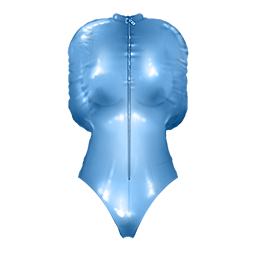
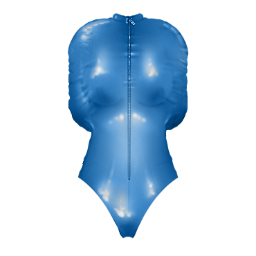
Feature: Shiny leotard variants (#1200)
* Initial commit of latex butterfly leotard code & assets

* Modifies the butterfly leotard to hide clit items

* Turns the butterfly leotard into an extended item, adds improved assets

* Adds a shiny variant of the latex boxtie leotard

* Adds a shiny variant of the latex sleeveless leotard

* Ensures the boxtie leotard actually hides vulva piercings

Changed region(s): [[0.25, 0.0312, 0.75, 0.9375]]

diff --git a/BondageClub/Assets/Female3DCG/Female3DCG.js b/BondageClub/Assets/Female3DCG/Female3DCG.js
@@ -1569,15 +1569,21 @@ var AssetFemale3DCG = [
 				]
 			},
 			{
-				Name: "LatexSleevelessLeotard", Value: 120, Priority: 23, Difficulty: 14, SelfBondage: 7, Time: 35, RemoveTime: 20, AllowLock: true, DefaultColor: "#d986a2", BuyGroup: "LatexSleevelessLeotard", Hide: ["Cloth", "ItemNipplesPiercings", "ItemVulvaPiercings"], HideItem: ["ItemButtAnalBeads2", "ItemVulvaVibratingDildo", "ItemVulvaInflatableVibeDildo", "ItemVulvaClitSuctionCup", "ItemNipplesLactationPump"], SetPose: ["BackElbowTouch"], Effect: ["Block", "Prone"], Block: ["ItemNipples", "ItemNipplesPiercings", "ItemVulva", "ItemVulvaPiercings", "ItemButt", "ItemPelvis", "ItemTorso", "ItemBreast", "ItemHands"], SelfUnlock: false, Layer: [
-					{ Name: "Latex", AllowColorize: true },
-					{ Name: "Highlights", AllowColorize: false }
+				Name: "LatexSleevelessLeotard", Value: 120, Priority: 23, Difficulty: 14, SelfBondage: 7, Time: 35, RemoveTime: 20, AllowLock: true, DefaultColor: "#d986a2", BuyGroup: "LatexSleevelessLeotard", Hide: ["Cloth", "ItemNipplesPiercings", "ItemVulvaPiercings"], HideItem: ["ItemButtAnalBeads2", "ItemVulvaVibratingDildo", "ItemVulvaInflatableVibeDildo", "ItemVulvaClitSuctionCup", "ItemNipplesLactationPump"], SetPose: ["BackElbowTouch"], Effect: ["Block", "Prone"], Block: ["ItemNipples", "ItemNipplesPiercings", "ItemVulva", "ItemVulvaPiercings", "ItemButt", "ItemPelvis", "ItemTorso", "ItemBreast", "ItemHands"], AllowType: ["Polished"], Extended: true, SelfUnlock: false, Layer: [
+					{ Name: "Latex", AllowColorize: true, AllowTypes: ["", "Polished"], HasType: false },
+					{ Name: "Highlights", AllowColorize: false, AllowTypes: ["", "Polished"] }
 				]
 			},
 			{
-				Name: "LatexBoxtieLeotard", Value: 120, Priority: 23, Difficulty: 14, SelfBondage: 7, Time: 35, RemoveTime: 20, AllowLock: true, DefaultColor: "#407eb3", BuyGroup: "LatexSleevelessLeotard", Hide: ["Cloth", "ItemNipplesPiercings"], HideItem: ["ItemButtAnalBeads2", "ItemVulvaVibratingDildo", "ItemVulvaInflatableVibeDildo", "ItemVulvaClitSuctionCup", "ItemVulvaPiercings"], SetPose: ["BackElbowTouch"], Effect: ["Block", "Prone"], Block: ["ItemNipples", "ItemNipplesPiercings", "ItemVulva", "ItemVulvaPiercings", "ItemButt", "ItemPelvis", "ItemTorso", "ItemBreast", "ItemHands"], SelfUnlock: false, Layer: [
-					{ Name: "Latex", AllowColorize: true },
-					{ Name: "Highlights", AllowColorize: false }
+				Name: "LatexBoxtieLeotard", Value: 120, Priority: 23, Difficulty: 14, SelfBondage: 7, Time: 35, RemoveTime: 20, AllowLock: true, DefaultColor: "#185d97", BuyGroup: "LatexSleevelessLeotard", Hide: ["Cloth", "ItemNipplesPiercings", "ItemVulvaPiercings"], HideItem: ["ItemButtAnalBeads2", "ItemVulvaVibratingDildo", "ItemVulvaInflatableVibeDildo", "ItemVulvaClitSuctionCup", "ItemVulvaPiercings"], SetPose: ["BackElbowTouch"], Effect: ["Block", "Prone"], Block: ["ItemNipples", "ItemNipplesPiercings", "ItemVulva", "ItemVulvaPiercings", "ItemButt", "ItemPelvis", "ItemTorso", "ItemBreast", "ItemHands"], AllowType: ["Polished"], Extended: true, SelfUnlock: false, Layer: [
+					{ Name: "Latex", AllowColorize: true, AllowTypes: ["", "Polished"], HasType: false },
+					{ Name: "Highlights", AllowColorize: false, AllowTypes: ["", "Polished"] }
+				]
+			},
+			{
+				Name: "LatexButterflyLeotard", Value: 150, Priority: 23, Difficulty: 14, SelfBondage: 7, Time: 35, RemoveTime: 20, AllowLock: true, DefaultColor: "#580505", Hide: ["Cloth", "Bra", "ItemNipplesPiercings", "ItemVulvaPiercings"], HideItem: ["ItemButtAnalBeads2", "ItemVulvaVibratingDildo", "ItemVulvaInflatableVibeDildo", "ItemVulvaClitSuctionCup"], SetPose: ["BackElbowTouch"], Effect: ["Block", "Prone"], Block: ["ItemNipples", "ItemNipplesPiercings", "ItemVulva", "ItemVulvaPiercings", "ItemButt", "ItemPelvis", "ItemTorso", "ItemBreast", "ItemHands"], AllowType: ["Polished"], Extended: true, SelfUnlock: false, Layer: [
+					{ Name: "Latex", AllowColorize: true, AllowTypes: ["", "Polished"], HasType: false },
+					{ Name: "Highlights", AllowColorize: false, AllowTypes: ["", "Polished"] },
 				]
 			},
 			{

diff --git a/BondageClub/Screens/Inventory/ItemArms/LatexSleevelessLeotard/LatexSleevelessLeotard.js b/BondageClub/Screens/Inventory/ItemArms/LatexSleevelessLeotard/LatexSleevelessLeotard.js
@@ -1,0 +1,21 @@
+"use strict";
+
+function InventoryItemArmsLatexSleevelessLeotardLoad() {
+	InventoryItemArmsLatexButterflyLeotardLoad();
+}
+
+function InventoryItemArmsLatexSleevelessLeotardDraw() {
+	InventoryItemArmsLatexButterflyLeotardDraw();
+}
+
+function InventoryItemArmsLatexSleevelessLeotardClick() {
+	InventoryItemArmsLatexButterflyLeotardClick();
+}
+
+function InventoryItemArmsLatexSleevelessLeotardPublishAction(C, Option) {
+	InventoryItemArmsLatexButterflyLeotardPublishAction(C, Option);
+}
+
+function InventoryItemArmsLatexSleevelessLeotardNpcDialog(C, Option) {
+	C.CurrentDialog = DialogFind(C, "ItemArmsLatexSleevelessLeotard" + Option.Name, "ItemArms");
+}

diff --git a/BondageClub/Screens/Inventory/ItemArms/LatexBoxtieLeotard/LatexBoxtieLeotard.js b/BondageClub/Screens/Inventory/ItemArms/LatexBoxtieLeotard/LatexBoxtieLeotard.js
@@ -1,0 +1,21 @@
+"use strict";
+
+function InventoryItemArmsLatexBoxtieLeotardLoad() {
+	InventoryItemArmsLatexButterflyLeotardLoad();
+}
+
+function InventoryItemArmsLatexBoxtieLeotardDraw() {
+	InventoryItemArmsLatexButterflyLeotardDraw();
+}
+
+function InventoryItemArmsLatexBoxtieLeotardClick() {
+	InventoryItemArmsLatexButterflyLeotardClick();
+}
+
+function InventoryItemArmsLatexBoxtieLeotardPublishAction(C, Option) {
+	InventoryItemArmsLatexButterflyLeotardPublishAction(C, Option);
+}
+
+function InventoryItemArmsLatexBoxtieLeotardNpcDialog(C, Option) {
+	C.CurrentDialog = DialogFind(C, "ItemArmsLatexBoxtieLeotard" + Option.Name, "ItemArms");
+}

diff --git a/BondageClub/index.html b/BondageClub/index.html
@@ -238,6 +238,7 @@
 <script src="Screens/Inventory/ItemButt/EggVibePlugXXL/EggVibePlugXXL.js"></script>
 <script src="Screens/Inventory/ItemNipples/LactationPump/LactationPump.js"></script>
 <script src="Screens/Inventory/ItemArms/LatexButterflyLeotard/LatexButterflyLeotard.js"></script>
+<script src="Screens/Inventory/ItemArms/LatexBoxtieLeotard/LatexBoxtieLeotard.js"></script>
 <script>
 
 /*
